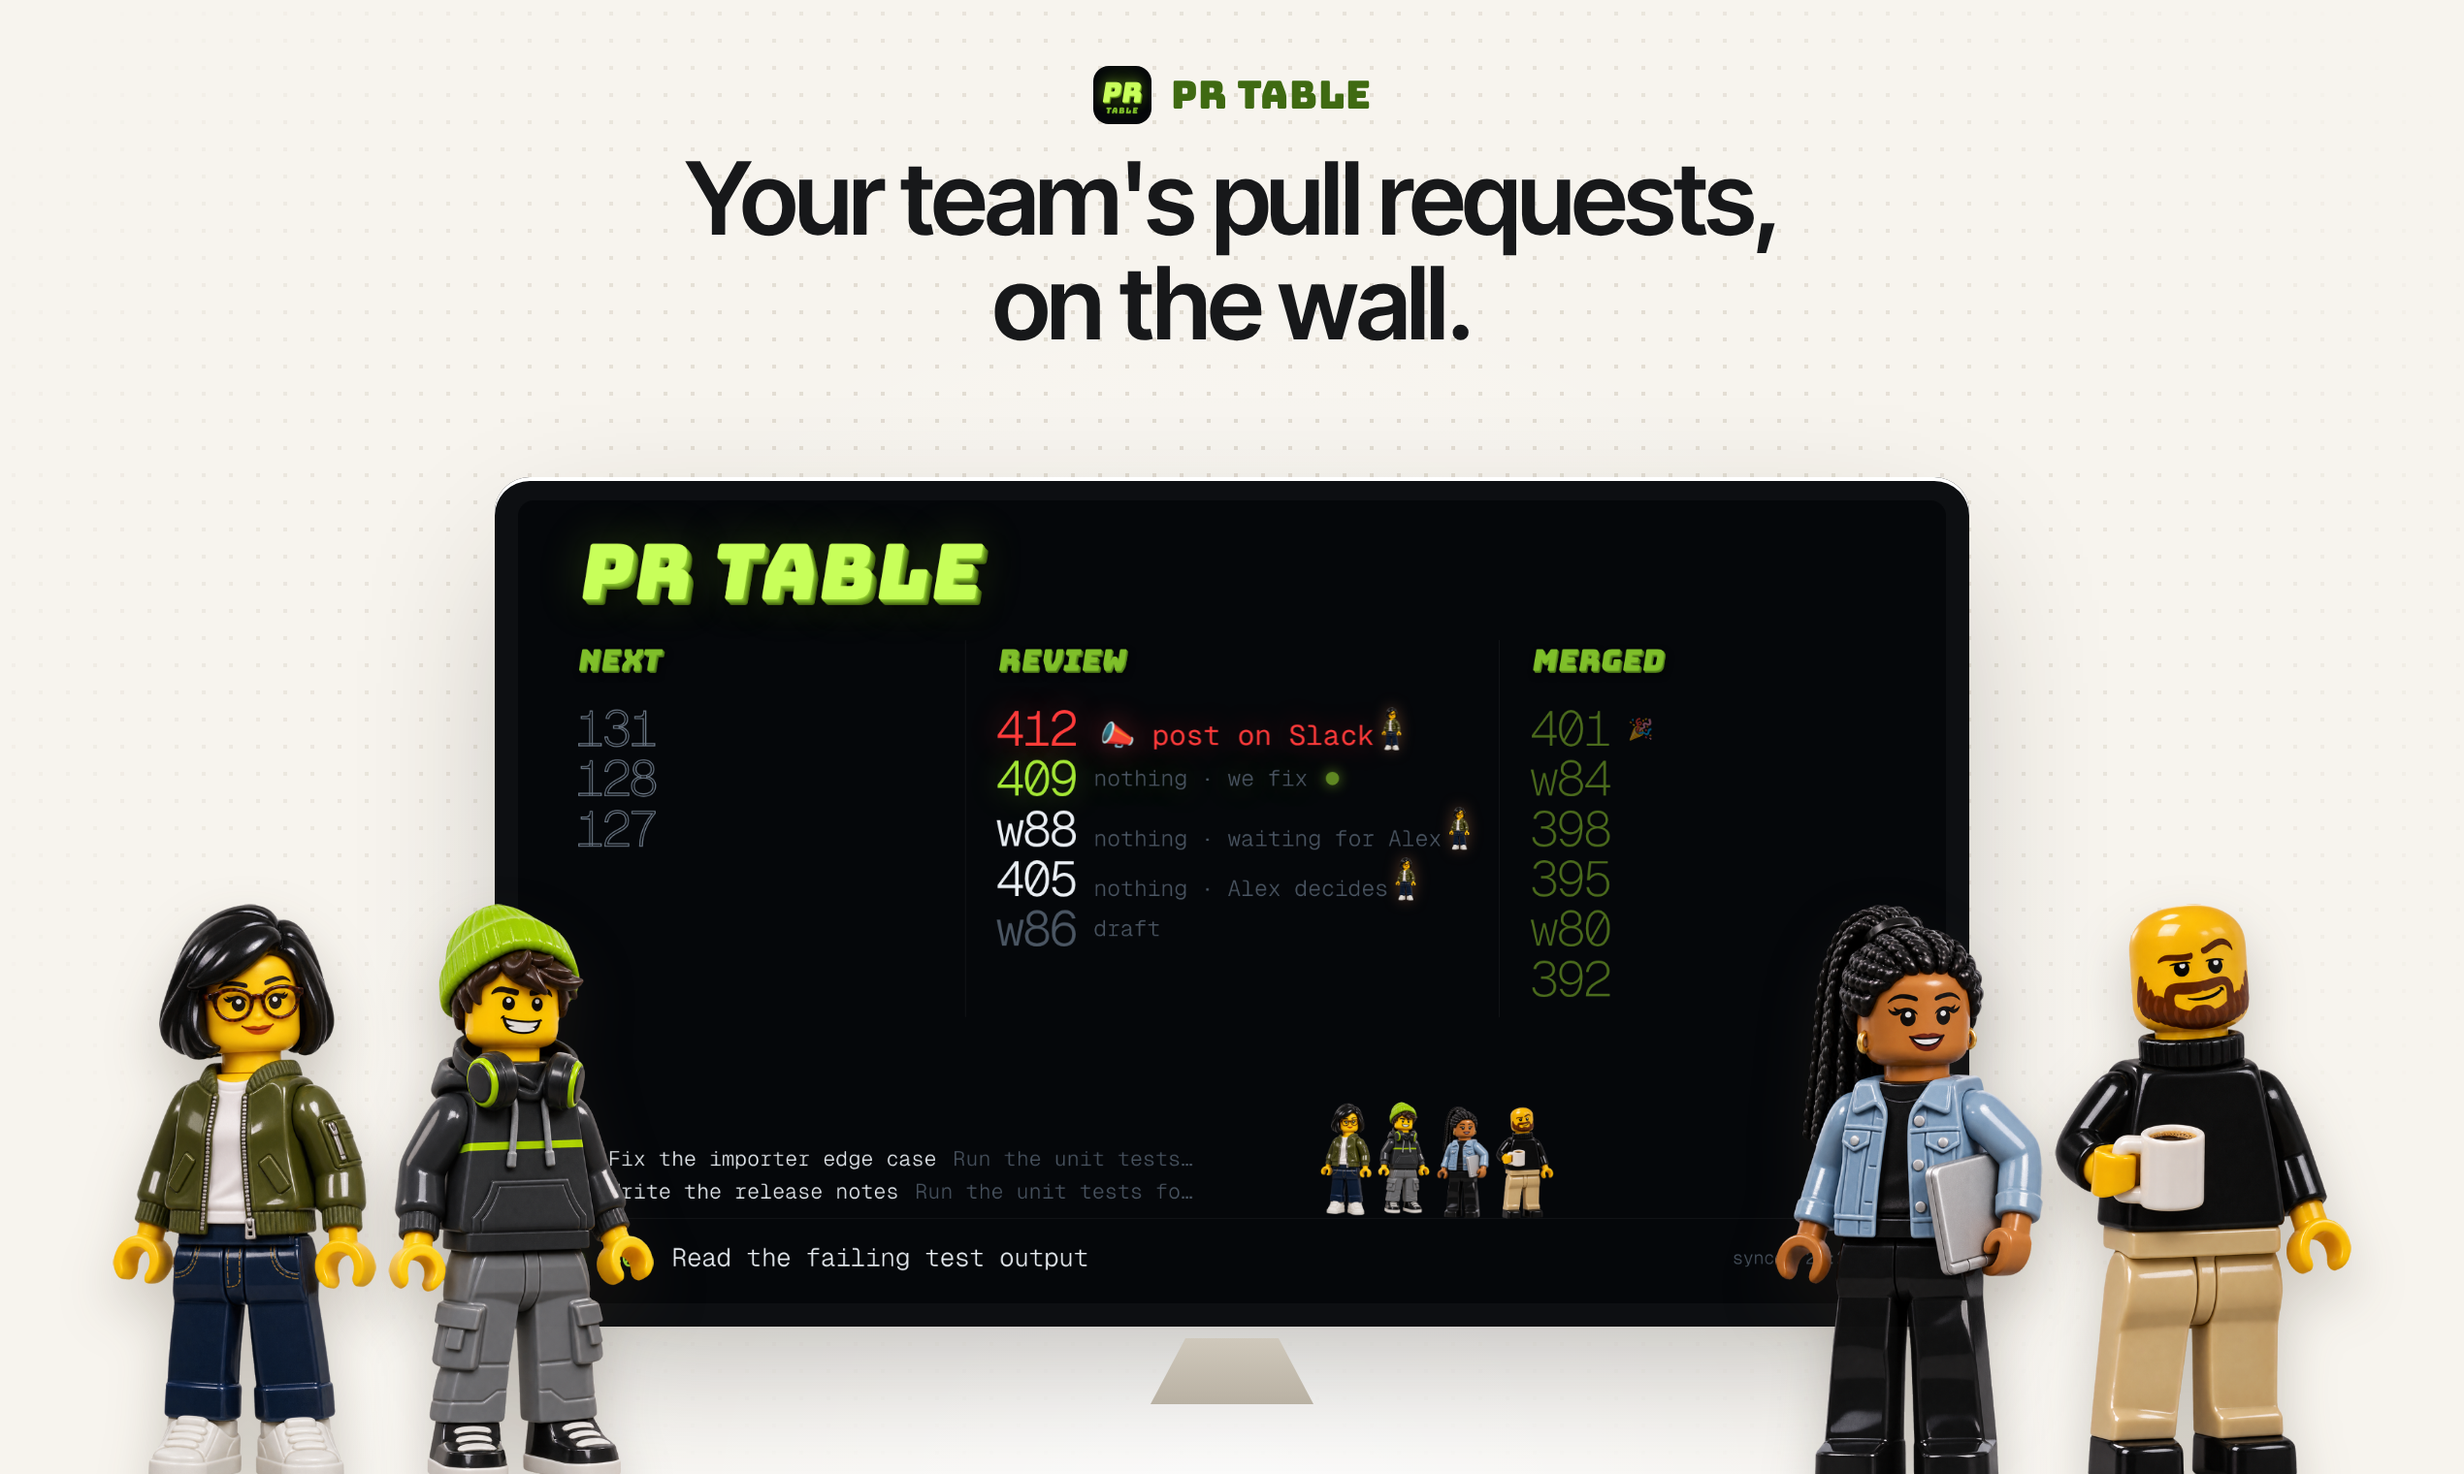
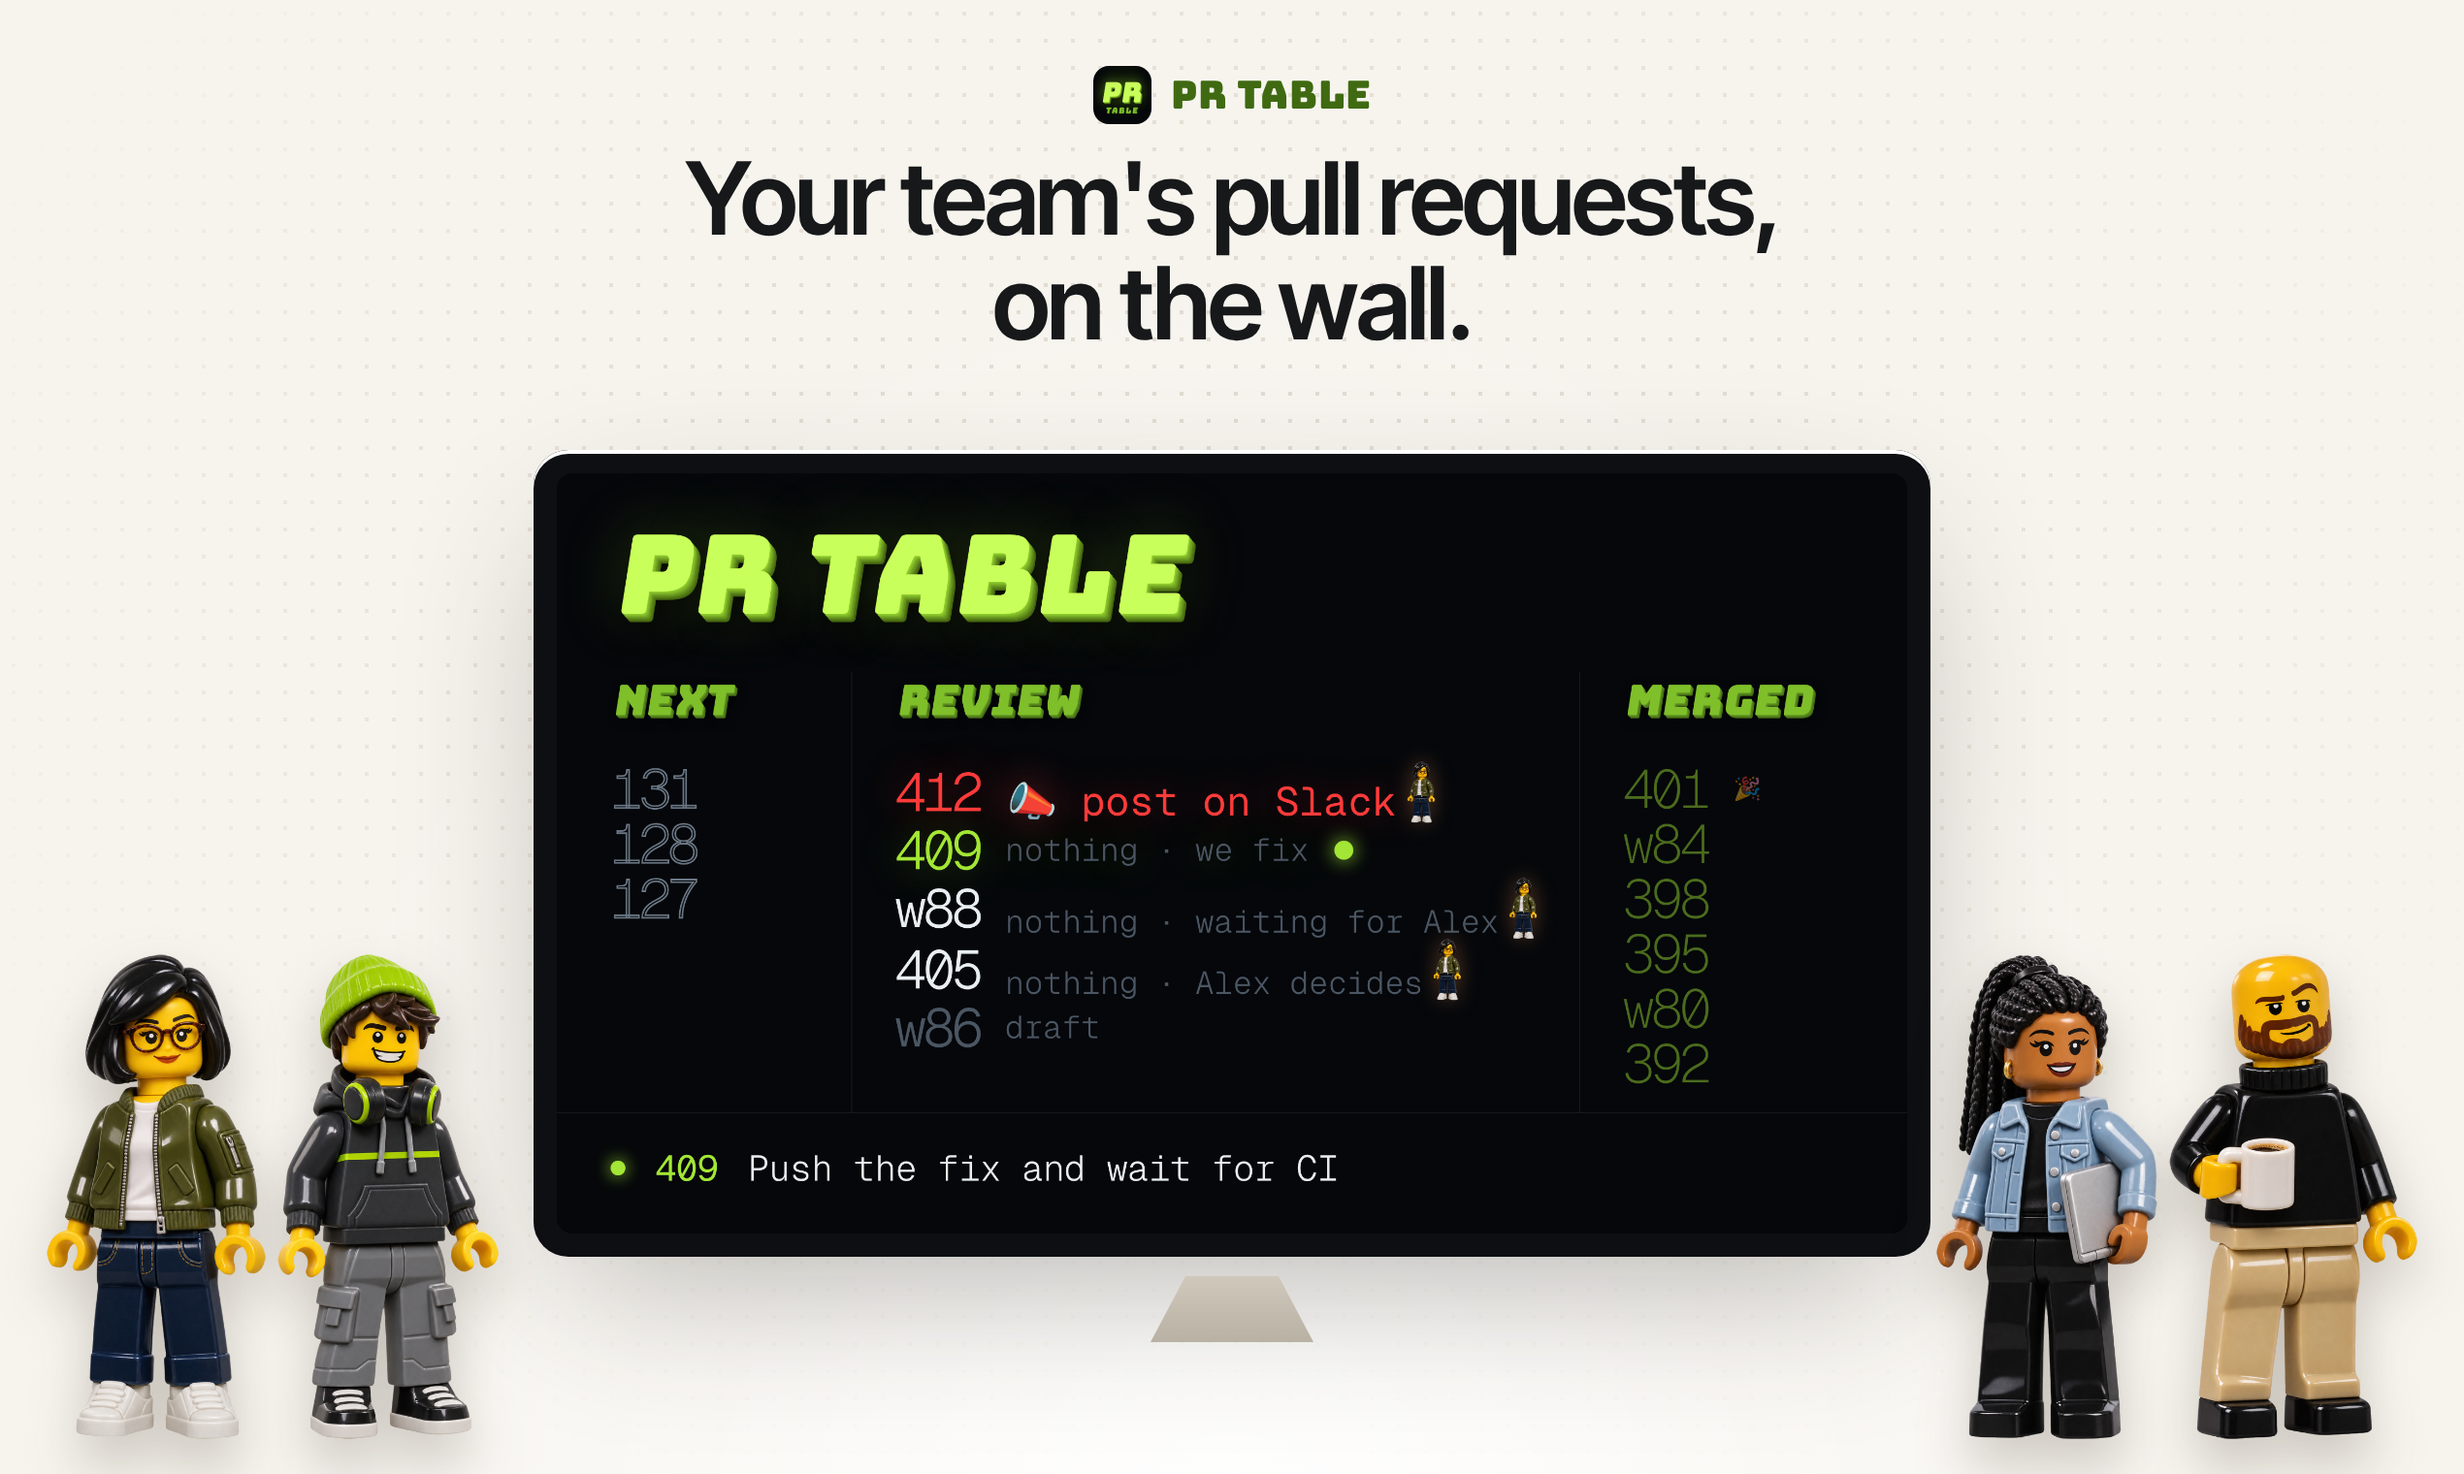
README: team tagline, wall photo and tour GIF

Changed region(s): [[0.0, 0.3092, 0.9953, 1.0]]

diff --git a/launch/slides.html b/launch/slides.html
@@ -42,10 +42,10 @@ h1.two { top: 70px; }
 <section class="slide" data-n="1">
   <div class="brand"><img src="logo-480.png" alt="">PR TABLE</div>
   <h1>Your team's pull requests,<br>on the wall.</h1>
-  <div class="monitor" style="top:246px; width:760px"><img src="gallery/board.png" alt=""></div>
-  <div class="stand" style="top:690px"></div>
-  <div class="crew" style="left:58px; bottom:-6px; height:300px"><img src="../web/assets/crew/crew-1.png" alt=""><img src="../web/assets/crew/crew-2.png" alt=""></div>
-  <div class="crew" style="right:58px; bottom:-6px; height:300px"><img src="../web/assets/crew/crew-3.png" alt=""><img src="../web/assets/crew/crew-4.png" alt=""></div>
+  <div class="monitor" style="top:232px; width:720px"><img src="gallery/board-hero.png" alt=""></div>
+  <div class="stand" style="top:658px"></div>
+  <div class="crew" style="left:24px; bottom:18px; height:250px"><img src="../web/assets/crew/crew-1.png" alt=""><img src="../web/assets/crew/crew-2.png" alt=""></div>
+  <div class="crew" style="right:24px; bottom:18px; height:250px"><img src="../web/assets/crew/crew-3.png" alt=""><img src="../web/assets/crew/crew-4.png" alt=""></div>
 </section>
 
 <section class="slide" data-n="2">

diff --git a/README.md b/README.md
@@ -2,7 +2,7 @@
 
 <h1 align="center">PR TABLE</h1>
 
-<p align="center"><b>Your pull requests, live on your second screen.</b><br>
+<p align="center"><b>Mission control for teams that ship with AI.</b><br>A dedicated screen for your team's pull requests.<br>
 Huge numbers you can read from across the room, the one thing you have to do in red, and a confetti party every time a PR merges.</p>
 
 <p align="center"><img src="launch/gallery/merge.gif" width="720" alt="The merge celebration"></p>
@@ -21,7 +21,9 @@ PR Table answers it on a spare monitor, without opening a single tab:
 - **A reviewer alert.** When your reviewer comments, their name takes over the whole screen for 45 seconds.
 - **A merge party.** Every merge triggers 20 seconds of 3D "MERGED", shockwaves, confetti and your crew jumping around.
 
-<p align="center"><img src="launch/gallery/board.png" width="900" alt="The board"></p>
+<p align="center"><img src="launch/final/1-team-wall.jpg" width="900" alt="PR Table on the team wall"></p>
+
+<p align="center"><img src="launch/final/2-tour.gif" width="900" alt="A tour of Next, Review and Merged"></p>
 
 ## Quick start (60 seconds, no setup)
 
